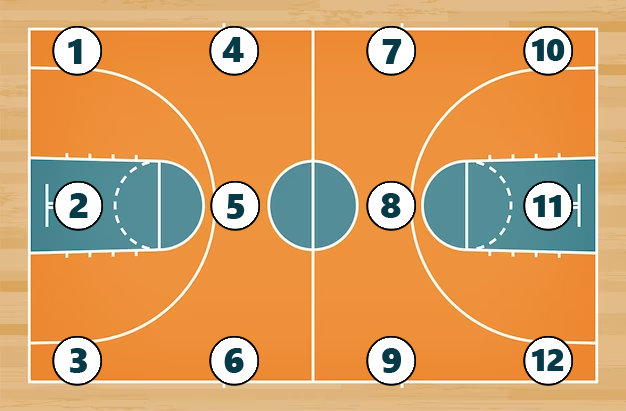
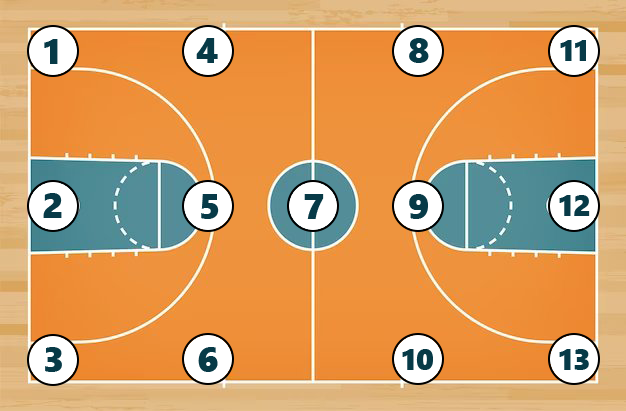
- Aggiornata la mappa delle telecamere (12 -> 13) - Sistemata la selezione delle telecamere durante la modifica della prenotazione - Sistemata la visualizzazione della mappa - Impedita la creazione di un evento senza inserire un'orario - TEST: implementata funzione di test per comunicare con un endp

diff --git a/js/calendar/calendar-scripts.js b/js/calendar/calendar-scripts.js
@@ -142,6 +142,7 @@ function saveEvent(email) {
             .fail(function (xhr, status, error) {
                 console.log(xhr.responseText);
             });
+
     } else {
         $('#error-message').show();
     }
@@ -333,7 +334,7 @@ function saveCameras() {
     var eventId = document.getElementById('id-cams').innerText;
 
     // Ottieni le telecamere selezionate come un array
-    var selectedCameras = $('input[name="camera[]"]:checked').map(function () {
+    var selectedCameras = $('input[name="new_camera[]"]:checked').map(function () {
         return $(this).val();
     }).get();
 
@@ -531,7 +532,7 @@ function updateAddcameras(response, id) {
     });
 
     // Seleziona le checkbox corrispondenti alle telecamere preselezionate
-    var checkboxes = document.querySelectorAll('input[type="checkbox"][name="camera[]"]');
+    var checkboxes = document.querySelectorAll('input[type="checkbox"][name="new_camera[]"]');
     checkboxes.forEach(function (checkbox) {
         if (selectedCameras.includes(checkbox.value)) {
             checkbox.checked = true;
@@ -550,7 +551,7 @@ function updateAddcameras(response, id) {
  * @returns {boolean} True se il modulo è valido, altrimenti false.
  */
 function validateForm() {
-    var requiredFields = ['society', 'start-date'];
+    var requiredFields = ["society", "start-date", "startTime", "endTime"];
 
     for (var i = 0; i < requiredFields.length; i++) {
         var field = document.querySelector('[name="' + requiredFields[i] + '"]');
@@ -590,6 +591,15 @@ function toggleCameraOptions(checkbox) {
     var cameraOptions = document.getElementById("map_container");
     if (checkbox.checked) {
         cameraOptions.style.display = "block";
+
+        // Resetto selezione "visiva" delle telecamere
+        var circles = document.getElementsByClassName("circle");
+        var numberOfCircles = document.getElementsByClassName("circle").length;
+
+        for (var i = 0; i < numberOfCircles; i++) {
+          circles[i].style.backgroundColor = "";
+        }
+        
     } else {
         cameraOptions.style.display = "none";
     }
@@ -676,16 +686,24 @@ function formatTime(time) {
  * @param {string} currentDate - La data corrente da utilizzare come valore predefinito per la data di inizio del nuovo obiettivo.
  */
 function createCalendarEvent(currentDate) {
-    $('#save-form').trigger('reset');
-    $('#save-form input[name=id]').val("");
-    $('#sd').val(currentDate);
-    $.magnificPopup.open({
-        items: {
-            src: "#add-event-modal"
-        },
-        type: 'inline',
-        enableEscapekey: false
-    }, 0);
+  $("#save-form").trigger("reset");
+  $("#save-form input[name=id]").val("");
+  $("#sd").val(currentDate);
+
+  // "Nascondo" la mappa delle telecamere
+  var cameraOptions = document.getElementById("map_container");
+  cameraOptions.style.display = "none";
+
+  $.magnificPopup.open(
+    {
+      items: {
+        src: "#add-event-modal",
+      },
+      type: "inline",
+      enableEscapekey: false,
+    },
+    0
+  );
 }
 
 // ...
@@ -697,7 +715,6 @@ function createCalendarEvent(currentDate) {
  */
 function handleDateClick(date) {
     var clickedDate = date.dateStr;
-
 
     $('#start-date').val(clickedDate);
     $('#end-date').val(clickedDate);
@@ -735,3 +752,19 @@ function getUserType() {
     });
 }
 
+/**
+ * TEST: ottengo il JSON di risposta da un indirizzo remoto
+ */
+function getEndpointStatus() {
+    const settings = {
+      async: true,
+      crossDomain: true,
+      url: "http://10.218.20.28:7000/",
+      method: "GET",
+      headers: {},
+    };
+
+    $.ajax(settings).done(function (response) {
+      console.log(response);
+    });
+}

diff --git a/calendar/calendar.php b/calendar/calendar.php
@@ -120,10 +120,20 @@ if (isset($actions[$userType])) {
 
 <!-- Modale aggiunta nuovo evento -->
 <div id="add-event-modal" class="white-popup-block mfp-hide">
+
     <p style="height: 30px; background: #8FB3FF; width: 100%;"></p>
     <h2>Nuovo Evento</h2>
     <div style="min-height: 250px;">
         <form id="save-form">
+
+            <script>
+                
+                // TEST:    ottengo il JSON di risposta da un indirizzo remoto
+                //          la prova in locale non funziona
+                getEndpointStatus();
+                
+            </script>
+
             <input type="hidden" name="id" />
             Societa:
             <select name="society" required>
@@ -160,41 +170,49 @@ if (isset($actions[$userType])) {
                 <label> <input type="checkbox" name="camera[]" value="10"> Camera 10 </label>
                 <label> <input type="checkbox" name="camera[]" value="11"> Camera 11 </label>
                 <label> <input type="checkbox" name="camera[]" value="12"> Camera 12 </label>
+                <label> <input type="checkbox" name="camera[]" value="13"> Camera 13 </label>
             </div>
 
-            <!-- Mappa per la scelta delle telecamere -->
+            <!-- Mappa per la scelta delle telecamere: mostra i cerchi colorati -->
             <div id="map_container" style="position: relative; display: none;">
                 <img src="/assets/images/basketball-court-floor.png" usemap="#camera_map" width="100%"/>
-                <div class="circle" style="top: 23px; left: 48px; pointer-events: none;"></div>     <!-- 1 -->
-                <div class="circle" style="top: 168px; left: 48px; pointer-events: none;"></div>    <!-- 2 -->
-                <div class="circle" style="top: 315px; left: 48px; pointer-events: none;"></div>    <!-- 3 -->
+                <div class="circle" style="top: 23px; left: 25px; pointer-events: none;"></div>     <!-- 1 -->
+                <div class="circle" style="top: 167px; left: 25px; pointer-events: none;"></div>    <!-- 2 -->
+                <div class="circle" style="top: 316px; left: 25px; pointer-events: none;"></div>    <!-- 3 -->
 
-                <div class="circle" style="top: 23px; left: 196px; pointer-events: none;"></div>     <!-- 4 -->
-                <div class="circle" style="top: 169px; left: 196px; pointer-events: none;"></div>    <!-- 5 -->
-                <div class="circle" style="top: 315px; left: 196px; pointer-events: none;"></div>    <!-- 6 -->
+                <div class="circle" style="top: 23px; left: 172px; pointer-events: none;"></div>     <!-- 4 -->
+                <div class="circle" style="top: 169px; left: 172px; pointer-events: none;"></div>    <!-- 5 -->
+                <div class="circle" style="top: 314px; left: 172px; pointer-events: none;"></div>    <!-- 6 -->
 
-                <div class="circle" style="top: 23px; left: 343px; pointer-events: none;"></div>     <!-- 7 -->
-                <div class="circle" style="top: 169px; left: 343px; pointer-events: none;"></div>    <!-- 8 -->
-                <div class="circle" style="top: 315px; left: 343px; pointer-events: none;"></div>    <!-- 9 -->
+                <div class="circle" style="top: 169px; left: 271px; pointer-events: none;"></div>     <!-- 7 -->
 
-                <div class="circle" style="top: 23px; left: 492px; pointer-events: none;"></div>     <!-- 10 -->
-                <div class="circle" style="top: 169px; left: 492px; pointer-events: none;"></div>    <!-- 11 -->
-                <div class="circle" style="top: 315px; left: 492px; pointer-events: none;"></div>    <!-- 12 -->
+                <div class="circle" style="top: 23px; left: 369px; pointer-events: none;"></div>    <!-- 8 -->
+                <div class="circle" style="top: 169px; left: 369px; pointer-events: none;"></div>    <!-- 9 -->
+                <div class="circle" style="top: 314px; left: 369px; pointer-events: none;"></div>     <!-- 10 -->
+
+                <div class="circle" style="top: 23px; left: 515px; pointer-events: none;"></div>    <!-- 11 -->
+                <div class="circle" style="top: 169px; left: 515px; pointer-events: none;"></div>    <!-- 12 -->
+                <div class="circle" style="top: 314px; left: 515px; pointer-events: none;"></div>    <!-- 13 -->
             </div>
 
             <map name="camera_map">
-                <area class="cam_1" shape="circle" coords="66,33,50" href="">       <!-- 1 -->
-                <area class="cam_2" shape="circle" coords="66,188,50" href="">      <!-- 2 -->
-                <area class="cam_3" shape="circle" coords="66,342,50" href="">      <!-- 3 -->
-                <area class="cam_4" shape="circle" coords="220,33,50" href="">      <!-- 4 -->
-                <area class="cam_5" shape="circle" coords="220,188,50" href="">     <!-- 5 -->
-                <area class="cam_6" shape="circle" coords="220,342,50" href="">     <!-- 6 -->
-                <area class="cam_7" shape="circle" coords="381,33,50" href="">      <!-- 7 -->
-                <area class="cam_8" shape="circle" coords="381,188,50" href="">     <!-- 8 -->
-                <area class="cam_9" shape="circle" coords="381,342,50" href="">     <!-- 9 -->
-                <area class="cam_10" shape="circle" coords="530,33,50" href="">     <!-- 10 -->
-                <area class="cam_11" shape="circle" coords="530,188,50" href="">    <!-- 11 -->
-                <area class="cam_12" shape="circle" coords="530,342,50" href="">    <!-- 12 -->
+                <area class="cam_1" shape="circle" coords="54,45,30" href="">       <!-- 1 -->
+                <area class="cam_2" shape="circle" coords="54,188,30" href="">      <!-- 2 -->
+                <area class="cam_3" shape="circle" coords="54,338,30" href="">      <!-- 3 -->
+
+                <area class="cam_4" shape="circle" coords="201,45,30" href="">      <!-- 4 -->
+                <area class="cam_5" shape="circle" coords="201,189,30" href="">     <!-- 5 -->
+                <area class="cam_6" shape="circle" coords="201,338,30" href="">     <!-- 6 -->
+
+                <area class="cam_7" shape="circle" coords="300,191,30" href="">      <!-- 7 -->
+
+                <area class="cam_8" shape="circle" coords="398,45,30" href="">     <!-- 8 -->
+                <area class="cam_9" shape="circle" coords="398,189,30" href="">     <!-- 9 -->
+                <area class="cam_10" shape="circle" coords="398,338,30" href="">     <!-- 10 -->
+
+                <area class="cam_11" shape="circle" coords="544,45,30" href="">    <!-- 11 -->
+                <area class="cam_12" shape="circle" coords="544,189,30" href="">    <!-- 12 -->
+                <area class="cam_13" shape="circle" coords="544,338,30" href="">    <!-- 13 -->
             </map>
 
             <script>
@@ -281,6 +299,13 @@ if (isset($actions[$userType])) {
                     var circles = document.getElementsByClassName('circle');
                     checkboxes[0].checked = !checkboxes[0].checked;
                     if (circles[11].style.backgroundColor == "") {circles[11].style.backgroundColor = "green";} else {circles[11].style.backgroundColor = "";}
+                });
+                $(".cam_13").on("click", function(e){
+                    e.preventDefault();
+                    var checkboxes = document.querySelectorAll('input[type=checkbox][value="13"]');
+                    var circles = document.getElementsByClassName('circle');
+                    checkboxes[0].checked = !checkboxes[0].checked;
+                    if (circles[12].style.backgroundColor == "") {circles[12].style.backgroundColor = "green";} else {circles[12].style.backgroundColor = "";}
                 });
             </script>
 
@@ -389,18 +414,19 @@ if (isset($actions[$userType])) {
         <p type="text" id="id-cams" style="display: none;"> id </p>
         <h2>Seleziona le telecamere da attivare:</h2>
         <form id="cameraForm">
-            <label> <input type="checkbox" name="camera[]" value="1"> Camera 1 </label>
-            <label> <input type="checkbox" name="camera[]" value="2"> Camera 2 </label>
-            <label> <input type="checkbox" name="camera[]" value="3"> Camera 3 </label>
-            <label> <input type="checkbox" name="camera[]" value="4"> Camera 4 </label>
-            <label> <input type="checkbox" name="camera[]" value="5"> Camera 5 </label>
-            <label> <input type="checkbox" name="camera[]" value="6"> Camera 6 </label>
-            <label> <input type="checkbox" name="camera[]" value="7"> Camera 7 </label>
-            <label> <input type="checkbox" name="camera[]" value="8"> Camera 8 </label>
-            <label> <input type="checkbox" name="camera[]" value="9"> Camera 9 </label>
-            <label> <input type="checkbox" name="camera[]" value="10"> Camera 10 </label>
-            <label> <input type="checkbox" name="camera[]" value="11"> Camera 11 </label>
-            <label> <input type="checkbox" name="camera[]" value="12"> Camera 12 </label>
+            <label> <input type="checkbox" name="new_camera[]" value="1"> Camera 1 </label>
+            <label> <input type="checkbox" name="new_camera[]" value="2"> Camera 2 </label>
+            <label> <input type="checkbox" name="new_camera[]" value="3"> Camera 3 </label>
+            <label> <input type="checkbox" name="new_camera[]" value="4"> Camera 4 </label>
+            <label> <input type="checkbox" name="new_camera[]" value="5"> Camera 5 </label>
+            <label> <input type="checkbox" name="new_camera[]" value="6"> Camera 6 </label>
+            <label> <input type="checkbox" name="new_camera[]" value="7"> Camera 7 </label>
+            <label> <input type="checkbox" name="new_camera[]" value="8"> Camera 8 </label>
+            <label> <input type="checkbox" name="new_camera[]" value="9"> Camera 9 </label>
+            <label> <input type="checkbox" name="new_camera[]" value="10"> Camera 10 </label>
+            <label> <input type="checkbox" name="new_camera[]" value="11"> Camera 11 </label>
+            <label> <input type="checkbox" name="new_camera[]" value="12"> Camera 12 </label>
+            <label> <input type="checkbox" name="new_camera[]" value="13"> Camera 13 </label>
             <button type="submit" onclick="saveCameras()">Attiva</button>
         </form>
     </div>
